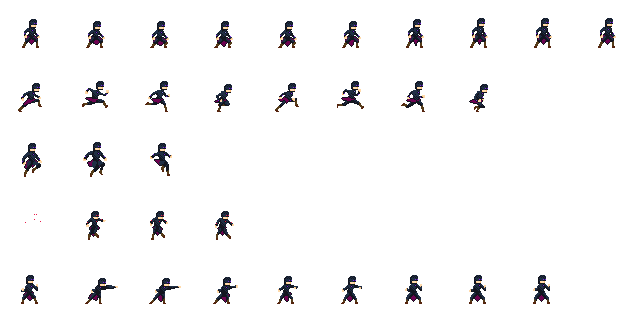
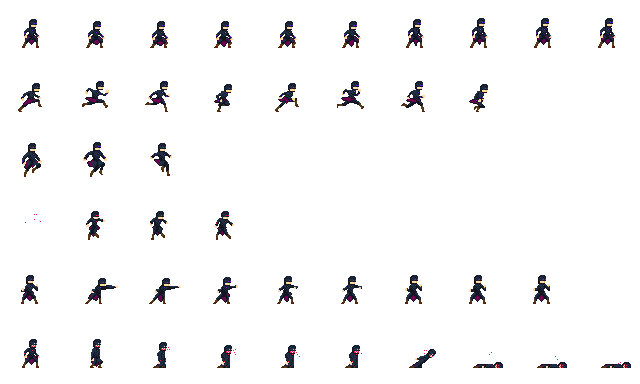
Added player death animation

diff --git a/godot/godot_4/2023/13/board.md b/godot/godot_4/2023/13/board.md
@@ -20,6 +20,7 @@
 		- [x] Jump / Fall
 		- [x] Hit
 		- [x] Hide
+		- [x] Die
 		- [ ] Interact (Hack?)
 		- [ ] Jab
 - [ ] Enemies
